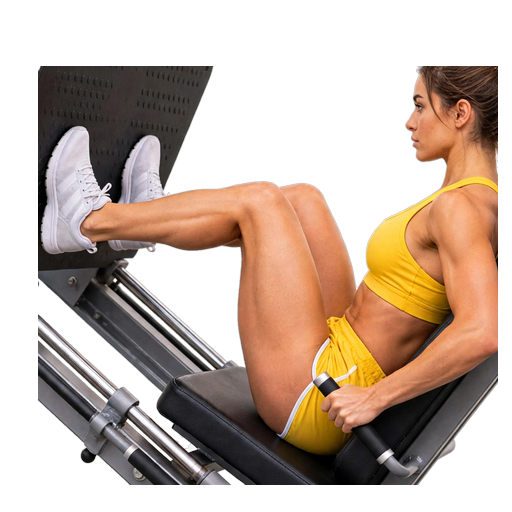
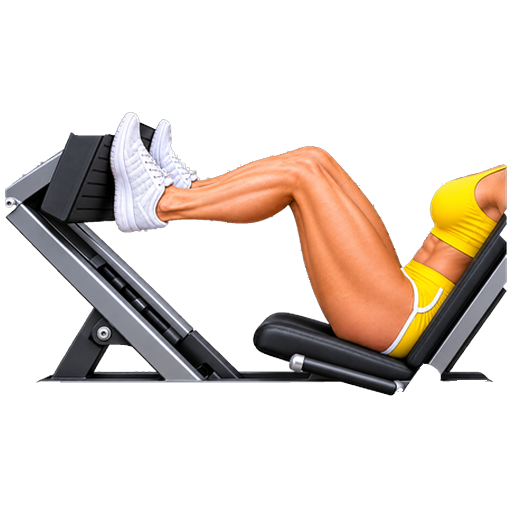
1.8.2 : (i) sur le bouton Déload, icône d'origine de la Presse à cuisses
Claude-Session: https://claude.ai/code/session_01D2bERS7WBZgExNoVRodtwC

diff --git a/style.css b/style.css
@@ -838,7 +838,7 @@ body[data-tab="programme"][data-pview="choose"] header h1 { display: none; }
 .deload-btn { align-self: stretch; width: 100%; min-height: 36px; margin: 0 0 12px; padding: 4px 12px 4px 16px; font-family: inherit; font-size: 0.9375rem; text-align: left; cursor: pointer; } /* 1.7.96 */
 .deload-btn .deload-btn-label { flex: 1; }
 .deload-btn .deload-btn-chevron { display: flex; }
-.deload-btn .deload-btn-chevron svg { width: 20px; height: 20px; }
+.deload-btn .deload-btn-chevron svg { width: 20px; height: 20px; } /* 1.8.2 : (i) à la place du chevron */
 .deload-btn:disabled { cursor: default; }
 .deload-btn:disabled .deload-btn-chevron { display: none; }
 .deload-actions { margin: -4px 0 12px; font-size: 0.875rem; color: var(--warn); }

diff --git a/app.js b/app.js
@@ -1726,7 +1726,7 @@ function renderSeanceHead(def, customSession) {
   if (deloadSubEl) {
     if (isDeloadActive()) {
       // 1.7.96 : bouton pleine largeur, ouvre l'explication avec « Reporter »
-      deloadSubEl.innerHTML = DELOAD_SVG + '<span class="deload-btn-label">Déload −20 %</span><span class="deload-btn-chevron">' + CHEVRON_SVG + '</span>';
+      deloadSubEl.innerHTML = DELOAD_SVG + '<span class="deload-btn-label">Déload −20 %</span><span class="deload-btn-chevron">' + INFO_SVG + '</span>'; // 1.8.2 : (i) au lieu du chevron (INFO_SVG : js/programmes.js)
       deloadSubEl.disabled = !!customSession;
       deloadSubEl.style.display = 'flex';
     } else {

diff --git a/sw.js b/sw.js
@@ -2,7 +2,7 @@
 // APP_VERSION doit être incrémenté à chaque release (en même temps que
 // manifest.json) : le navigateur ne réinstalle le service worker que si
 // le contenu de ce fichier change.
-const APP_VERSION = '1.8.1';
+const APP_VERSION = '1.8.2';
 // 1.7.64 (co-auteur : Claude) : production (…/suivi-fitness/) et test (…/suivi-fitness/dev/) sont sur le même
 // domaine et partagent le stockage des caches : chaque version nomme ses caches d'après son dossier et ne
 // supprime que les siens (plus les anciens caches sans dossier, d'avant la 1.7.64).

diff --git a/CHANGELOG.md b/CHANGELOG.md
@@ -7,6 +7,13 @@ et ce projet respecte [Semantic Versioning](https://semver.org/spec/v2.0.0.html)
 
 ---
 
+## [1.8.2] - 2026-11-15
+### 🪶 Bouton Déload et icône de la Presse à cuisses (co-auteur : Claude)
+- **Bouton Déload (Séance)** : l'icône (i) remplace la flèche à droite, comme l'astuce d'échauffement ; elle ouvre toujours l'explication.
+- **Presse à cuisses** : retour à l'icône d'origine (sportive et machine entières), avec les points gris du contour retirés. La photo de la 1.7.97, coupée à droite, donnait un effet carré.
+
+---
+
 ## [1.8.1] - 2026-11-15
 ### 🎨 Séance : champs de saisie plus contrastés (co-auteur : Claude)
 - Variante G de la planche « contrastes », en clair comme en sombre.
